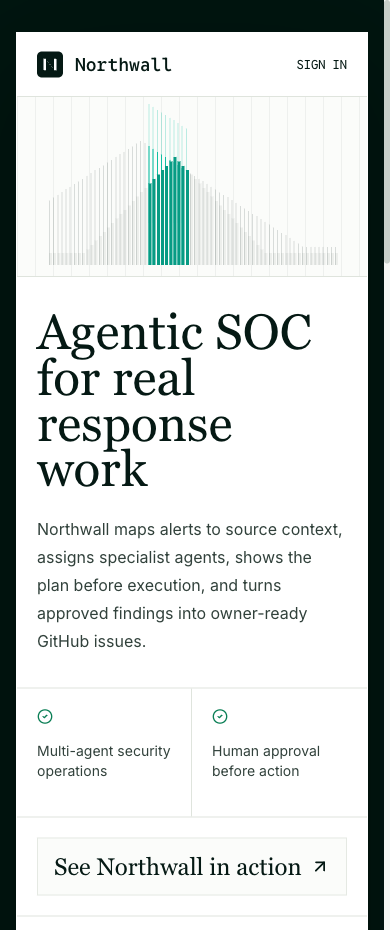
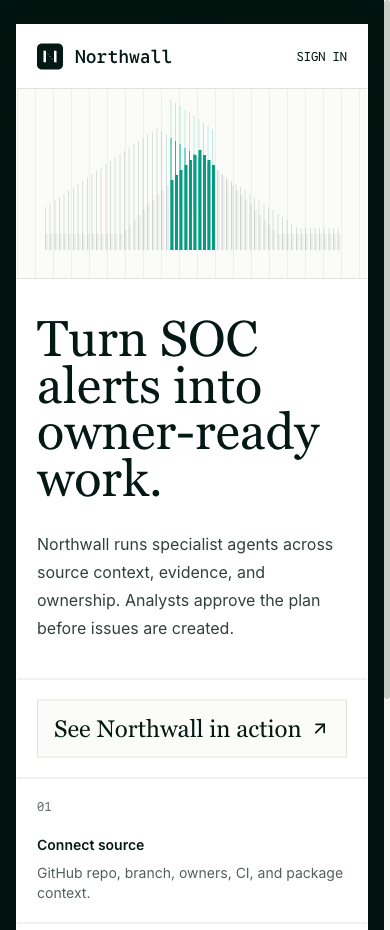
Simplify Northwall landing page

diff --git a/packages/frontend/src/app/page.tsx b/packages/frontend/src/app/page.tsx
@@ -1,57 +1,39 @@
 import Link from "next/link";
-import { ArrowUpRight, CheckCircle2 } from "lucide-react";
+import { ArrowUpRight } from "lucide-react";
 import { NorthwallLogo, NorthwallMark } from "@/components/logo";
 
-const agents = [
-  ["Triage", "Separate weak signals from incidents worth a response run."],
-  ["Context", "Map source, owners, dependencies, CI, and affected paths."],
-  ["Plan", "Show the agent team, task order, evidence goals, and approval notes."],
-  ["Handoff", "Draft GitHub issues that owners can act on without a second rewrite."],
-];
-
-const flow = [
-  "Connect GitHub",
-  "Build context",
-  "Review plan",
-  "Run agents",
-  "Create issues",
-];
-
-const integrations = [
-  "Microsoft Sentinel",
-  "CrowdStrike",
-  "GitHub",
-  "Snyk",
-  "Semgrep",
-  "Jira",
-  "Slack",
+const steps = [
+  ["01", "Connect source", "GitHub repo, branch, owners, CI, and package context."],
+  ["02", "Review plan", "Agent team, task order, evidence goals, and approval notes."],
+  ["03", "Create issues", "Approved findings become owner-ready GitHub work items."],
 ];
 
 function SignalField() {
   return (
-    <div className="relative h-[180px] overflow-hidden border-b border-[#dfe4dd] bg-[#fbfcfa]">
-      <div className="absolute inset-0 bg-[linear-gradient(90deg,rgba(5,25,20,0.05)_1px,transparent_1px)] bg-[length:18px_18px]" />
-      <div className="absolute left-8 right-8 top-10 h-32">
-        {Array.from({ length: 70 }).map((_, index) => {
-          const isActive = index >= 24 && index <= 33;
-          const height = Math.max(18, 124 - Math.abs(index - 22) * 2.7);
-          const lowerHeight = Math.max(12, 108 - Math.abs(index - 30) * 4.4);
+    <div className="relative h-[190px] overflow-hidden border-b border-[#dfe4dd] bg-[#fbfcfa]">
+      <div className="absolute inset-0 bg-[linear-gradient(90deg,rgba(5,25,20,0.055)_1px,transparent_1px)] bg-[length:18px_18px]" />
+      <div className="absolute inset-x-7 bottom-7 h-32">
+        {Array.from({ length: 64 }).map((_, index) => {
+          const isActive = index >= 27 && index <= 36;
+          const slope = Math.max(22, 122 - Math.abs(index - 24) * 3.3);
+          const lower = Math.max(16, 100 - Math.abs(index - 33) * 5);
+
           return (
             <span
               key={index}
               className="absolute bottom-0 w-px"
               style={{
-                left: `${index * 1.45}%`,
-                height: `${height}px`,
-                background: isActive ? "#11bfa3" : "rgba(5,25,20,0.14)",
-                boxShadow: isActive ? "0 -42px 0 rgba(17,191,163,0.28)" : undefined,
+                left: `${index * 1.58}%`,
+                height: `${slope}px`,
+                background: isActive ? "#10bfa3" : "rgba(5,25,20,0.13)",
+                boxShadow: isActive ? "0 -38px 0 rgba(16,191,163,0.28)" : undefined,
               }}
             >
               <span
                 className="absolute bottom-0 block w-[3px]"
                 style={{
-                  height: `${lowerHeight}px`,
-                  background: isActive ? "#079b84" : "rgba(5,25,20,0.06)",
+                  height: `${lower}px`,
+                  background: isActive ? "#079b84" : "rgba(5,25,20,0.055)",
                 }}
               />
             </span>
@@ -62,47 +44,16 @@ function SignalField() {
   );
 }
 
-function MiniRun() {
-  return (
-    <div className="relative border-l border-[#dfe4dd] bg-[#fbfcfa] p-6 md:p-8">
-      <div className="absolute inset-0 bg-[linear-gradient(90deg,rgba(17,191,163,0.16)_1px,transparent_1px)] bg-[length:16px_16px] opacity-60" />
-      <div className="relative mx-auto max-w-md border border-[#dfe4dd] bg-white p-5 shadow-[0_18px_50px_rgba(5,25,20,0.08)]">
-        <div className="mb-4 flex items-center justify-between border-b border-[#e5e9e3] pb-3">
-          <span className="font-display text-xs uppercase text-[#68736d]">Live SOC run</span>
-          <span className="h-2 w-2 rounded-full bg-[#11bfa3]" />
-        </div>
-        <div className="space-y-3 text-sm">
-          {[
-            ["Context mapper", "6 investigation areas indexed"],
-            ["Triage agent", "3 findings with evidence"],
-            ["Handoff writer", "Issues ready for review"],
-          ].map(([agent, result]) => (
-            <div key={agent} className="grid grid-cols-[110px_1fr] gap-3 border-b border-[#eef1ed] pb-3 last:border-0 last:pb-0">
-              <span className="font-display text-xs text-[#68736d]">{agent}</span>
-              <span className="text-[#051914]">{result}</span>
-            </div>
-          ))}
-        </div>
-      </div>
-    </div>
-  );
-}
-
 export default function LandingPage() {
   return (
-    <main className="min-h-screen bg-[#00150f] text-[#051914]">
-      <section className="mx-auto flex min-h-screen max-w-7xl items-center px-4 py-8 sm:px-8">
-        <div className="w-full overflow-hidden border border-white/20 bg-white shadow-[0_40px_120px_rgba(0,0,0,0.35)]">
-          <header className="flex h-16 items-center justify-between border-b border-[#dfe4dd] px-5 sm:px-8">
+    <main className="min-h-screen bg-[#00150f] px-4 py-6 text-[#051914] sm:px-8 sm:py-10">
+      <section className="mx-auto flex min-h-[calc(100vh-80px)] max-w-6xl items-center">
+        <div className="w-full overflow-hidden border border-white/20 bg-white shadow-[0_40px_120px_rgba(0,0,0,0.32)]">
+          <header className="flex h-16 items-center justify-between border-b border-[#dfe4dd] px-5 sm:px-7">
             <Link href="/" className="flex items-center gap-3">
               <NorthwallMark size={26} className="text-[#051914]" />
               <NorthwallLogo className="text-lg" />
             </Link>
-            <nav className="hidden items-center gap-7 font-display text-xs uppercase text-[#28352f] md:flex">
-              <a href="#workflow" className="hover:text-[#0b7f56]">Workflow</a>
-              <a href="#agents" className="hover:text-[#0b7f56]">Agents</a>
-              <a href="#stack" className="hover:text-[#0b7f56]">Stack</a>
-            </nav>
             <Link
               href="/login"
               className="font-display text-xs uppercase text-[#051914] underline-offset-4 hover:underline"
@@ -113,83 +64,40 @@ export default function LandingPage() {
 
           <SignalField />
 
-          <div className="grid border-b border-[#dfe4dd] md:grid-cols-[1.05fr_0.95fr]">
-            <section className="px-5 py-8 sm:px-8 sm:py-10">
-              <h1 className="max-w-3xl font-serif text-[3.1rem] font-normal leading-[0.92] text-[#051914] sm:text-[4.5rem] lg:text-[5.4rem]">
-                Agentic SOC for real response work
+          <div className="grid md:grid-cols-[1fr_360px]">
+            <section className="px-5 py-9 sm:px-8 sm:py-12">
+              <h1 className="max-w-3xl font-serif text-[3.15rem] font-normal leading-[0.93] text-[#051914] sm:text-[5rem] md:text-[5.7rem]">
+                Turn SOC alerts into owner-ready work.
               </h1>
-              <p className="mt-6 max-w-xl text-base leading-7 text-[#31413b]">
-                Northwall maps alerts to source context, assigns specialist agents, shows the plan before execution, and turns approved findings into owner-ready GitHub issues.
+              <p className="mt-7 max-w-2xl text-base leading-7 text-[#31413b] sm:text-lg">
+                Northwall runs specialist agents across source context, evidence, and ownership. Analysts approve the plan before issues are created.
               </p>
             </section>
 
-            <section className="grid border-t border-[#dfe4dd] md:grid-rows-[1fr_auto] md:border-l md:border-t-0">
-              <div className="grid grid-cols-2 border-b border-[#dfe4dd]">
-                {["Multi-agent security operations", "Human approval before action"].map((item) => (
-                  <div key={item} className="min-h-32 border-r border-[#dfe4dd] p-5 last:border-r-0">
-                    <CheckCircle2 className="mb-4 h-4 w-4 text-[#0b7f56]" />
-                    <p className="text-sm leading-5 text-[#31413b]">{item}</p>
-                  </div>
-                ))}
-              </div>
-              <div className="flex items-end p-5 sm:p-8">
-                <Link
-                  href="/workspace"
-                  className="group flex w-full items-center justify-between border border-[#e5e9e3] bg-[#fbfcfa] px-4 py-4 text-left transition-colors hover:border-[#051914]"
-                >
-                  <span className="font-serif text-2xl leading-none text-[#051914]">See Northwall in action</span>
-                  <ArrowUpRight className="h-5 w-5 transition-transform group-hover:-translate-y-0.5 group-hover:translate-x-0.5" />
-                </Link>
-              </div>
-            </section>
+            <aside className="flex border-t border-[#dfe4dd] p-5 md:border-l md:border-t-0 sm:p-7">
+              <Link
+                href="/workspace"
+                className="group mt-auto flex w-full items-center justify-between border border-[#dfe4dd] bg-[#fbfcfa] px-4 py-4 text-left transition-colors hover:border-[#051914]"
+              >
+                <span className="font-serif text-2xl leading-none text-[#051914]">
+                  See Northwall in action
+                </span>
+                <ArrowUpRight className="h-5 w-5 transition-transform group-hover:-translate-y-0.5 group-hover:translate-x-0.5" />
+              </Link>
+            </aside>
           </div>
 
-          <section id="workflow" className="grid border-b border-[#dfe4dd] md:grid-cols-[0.36fr_0.64fr]">
-            <div className="border-b border-[#dfe4dd] p-6 md:border-b-0 md:border-r md:p-8">
-              <p className="max-w-sm text-lg leading-7 text-[#31413b]">
-                A response run should not be a black box. Northwall shows the source, the graph, the agents, the plan, and the final work item.
-              </p>
-            </div>
-            <div className="grid grid-cols-1 sm:grid-cols-5">
-              {flow.map((step, index) => (
-                <div key={step} className="min-h-32 border-b border-[#dfe4dd] p-5 sm:border-b-0 sm:border-r last:border-r-0">
-                  <span className="font-display text-xs text-[#68736d]">0{index + 1}</span>
-                  <p className="mt-5 text-sm font-medium leading-5 text-[#051914]">{step}</p>
-                </div>
-              ))}
-            </div>
-          </section>
-
-          <section id="agents" className="grid md:grid-cols-[0.55fr_0.45fr]">
-            <div className="grid grid-cols-1 sm:grid-cols-2">
-              {agents.map(([title, body]) => (
-                <article key={title} className="min-h-48 border-b border-r border-[#dfe4dd] p-6 md:p-8">
-                  <h2 className="font-serif text-3xl font-normal text-[#051914]">{title}</h2>
-                  <p className="mt-4 max-w-xs text-sm leading-6 text-[#53615b]">{body}</p>
-                </article>
-              ))}
-            </div>
-            <MiniRun />
-          </section>
-
-          <section id="stack" className="grid border-t border-[#dfe4dd] md:grid-cols-[0.36fr_0.64fr]">
-            <div className="p-6 md:border-r md:p-8">
-              <h2 className="font-serif text-4xl font-normal leading-none">Built for the SOC stack you already have</h2>
-            </div>
-            <div className="grid grid-cols-2 sm:grid-cols-4">
-              {integrations.map((name) => (
-                <div key={name} className="border-l border-t border-[#dfe4dd] p-5 first:border-l-0 sm:first:border-l">
-                  <p className="font-display text-xs uppercase leading-5 text-[#31413b]">{name}</p>
-                </div>
-              ))}
-              <Link
-                href="https://inferensys.com/contact"
-                className="group border-l border-t border-[#dfe4dd] bg-[#051914] p-5 text-white"
+          <section className="grid border-t border-[#dfe4dd] sm:grid-cols-3">
+            {steps.map(([number, title, body]) => (
+              <article
+                key={title}
+                className="min-h-36 border-b border-[#dfe4dd] p-5 last:border-b-0 sm:border-b-0 sm:border-r sm:last:border-r-0"
               >
-                <span className="font-display text-xs uppercase">Talk to Inferensys</span>
-                <ArrowUpRight className="mt-8 h-5 w-5 transition-transform group-hover:-translate-y-0.5 group-hover:translate-x-0.5" />
-              </Link>
-            </div>
+                <div className="font-display text-xs text-[#68736d]">{number}</div>
+                <h2 className="mt-5 text-sm font-semibold text-[#051914]">{title}</h2>
+                <p className="mt-2 max-w-xs text-sm leading-5 text-[#53615b]">{body}</p>
+              </article>
+            ))}
           </section>
         </div>
       </section>
